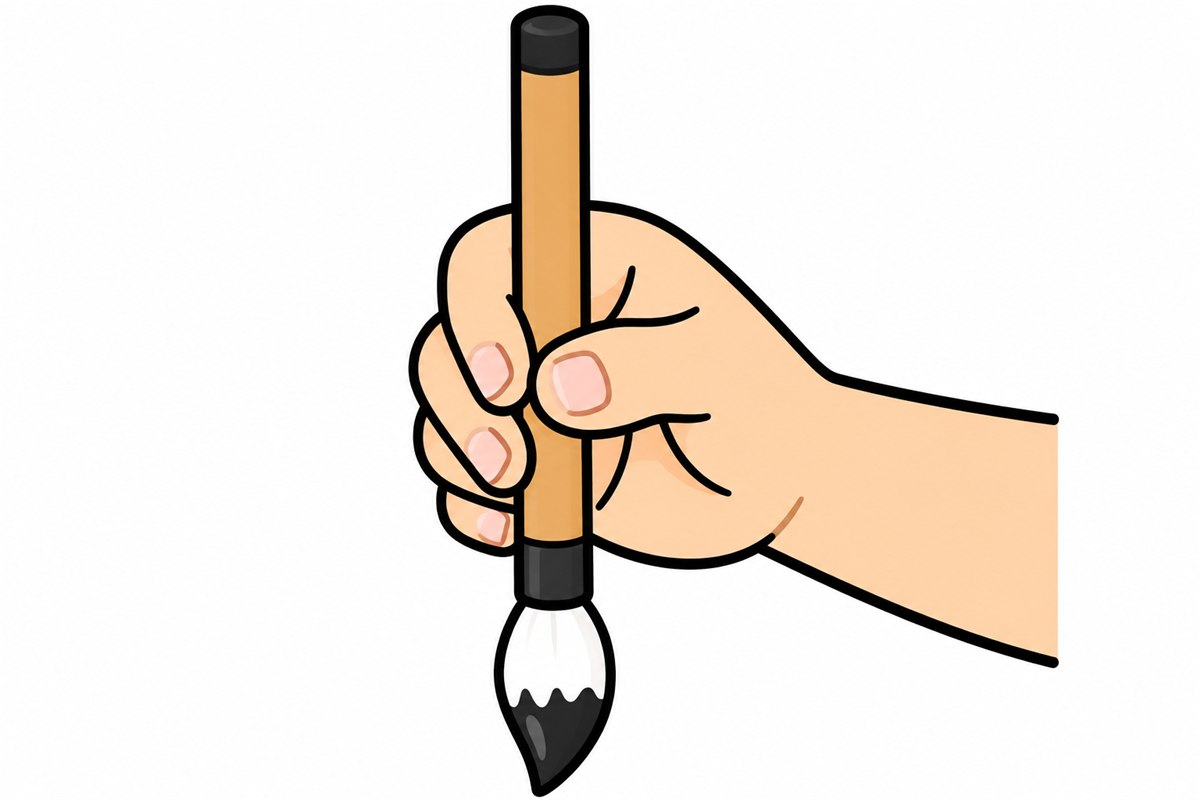
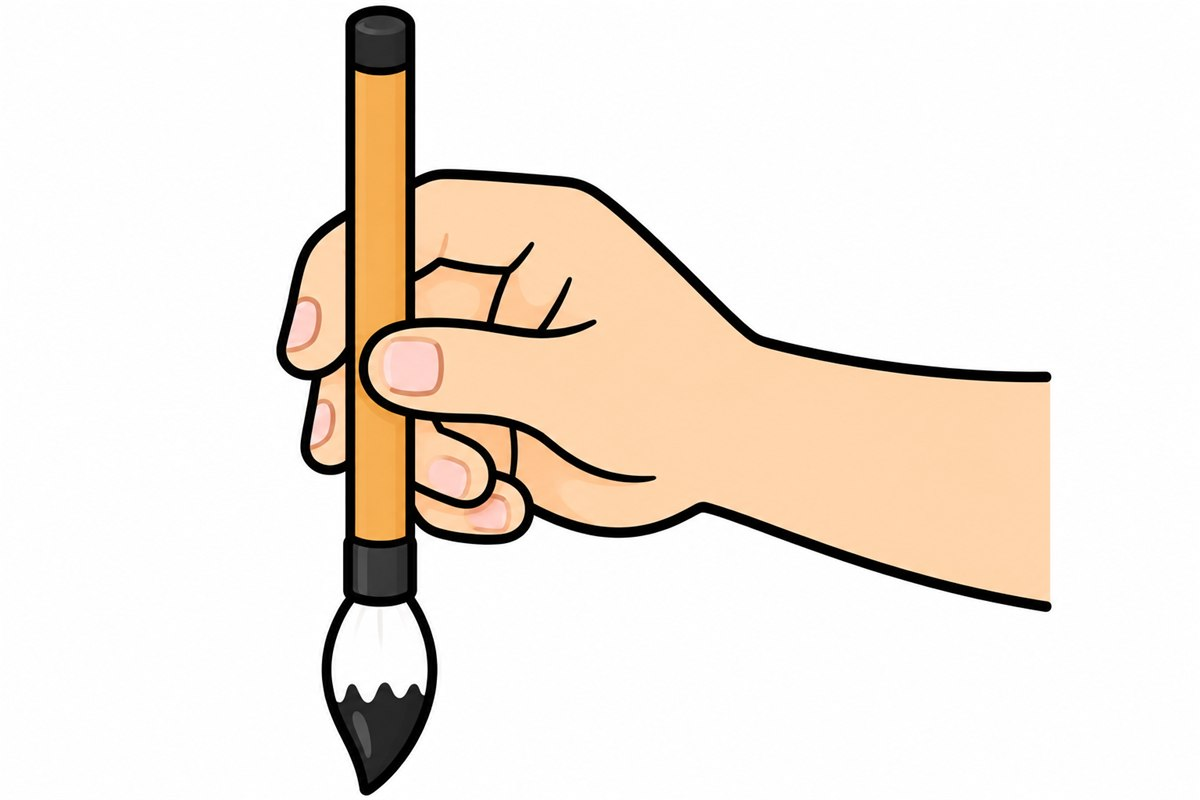
書写アプリ：筆の持ち方を単鉤法に変え、④⑤⑥にお手本の動きを足す
- 「ふでの もちかた」の絵を、単鉤法（おや指と人さし指で持ち、中指でささえる）に作り直す（ChatGPT）
- ことばを「えんぴつと おなじ もちかた」に合わせ、ポイントを4つにする
- 「すわりかた」「ふでの もちかた」は、絵を左、ことばを右にならべて、スクロールなしでおさめる
- ④⑤⑥（かみを おいて なぞる・ふでで なぞる・見て かく）の右がわに、横画・左はらい・右はらいのお手本の筆の動きを出す

Changed region(s): [[0.2158, 0.0, 0.8942, 1.0]]

diff --git a/shosha/index.html b/shosha/index.html
@@ -68,6 +68,10 @@
   .points { display:grid; gap:.45rem; margin:.6rem auto 0; max-width:46rem; padding:0; list-style:none; }
   .points li { background:#fff; border:.14rem solid var(--line); border-radius:.9rem; padding:.45rem .8rem; font-size:1.4rem; font-weight:700; display:flex; gap:.6rem; align-items:center; }
   .points li b { display:grid; place-items:center; flex:none; width:2.1rem; height:2.1rem; border-radius:50%; background:var(--ai); color:#fff; }
+  .card.side { display:flex; gap:1rem; align-items:center; justify-content:center; }
+  .card.side .pic { margin:0; flex:0 1 auto; }
+  .card.side .points { margin:0; flex:1 1 18rem; max-width:30rem; }
+  @media (max-width:800px) { .card.side { flex-direction:column; } }
   .three { display:grid; grid-template-columns:repeat(3,1fr); gap:.6rem; }
   .three figure { margin:0; background:#fff; border:.14rem solid var(--line); border-radius:1rem; padding:.4rem; text-align:center; }
   .three img { width:100%; max-height:36vh; object-fit:contain; }
@@ -372,13 +376,13 @@ const JUNBI = [
     tags: [['おてほん', 13, 88], ['ぶんちん', 48, 13], ['かみ（はんし）', 48, 55], ['したじき', 48, 93], ['おおふで', 67, 11], ['こふで', 77, 95], ['すみ', 90, 3], ['すずり', 91, 97]] },
   { title: 'すわりかた', img: 'shisei.jpg', say: 'しせいを ととのえよう。',
     pts: ['せなかを ぴん', 'あしは ゆかに ぺったん', 'おなかと つくえの あいだは グー ひとつ', 'ひだりてで かみを おさえる'] },
-  { title: 'ふでの もちかた', img: 'mochikata.jpg', say: 'ふでを もとう。ふでは まっすぐ たてるよ。',
-    pts: ['ふでは まっすぐ たてる', 'おやゆびと ゆび ２ほんで もつ', 'ひじを すこし あげる'] }
+  { title: 'ふでの もちかた', img: 'mochikata.jpg', say: 'ふでを もとう。えんぴつと おなじ もちかたで、ふでを まっすぐ たてるよ。',
+    pts: ['おやゆびと ひとさしゆびで もつ', 'なかゆびで うしろから ささえる', 'ふでは まっすぐ たてる', 'ひじを すこし あげる'] }
 ];
 function junbi(m) {
   const J = JUNBI[ui.sub];
   m.innerHTML = talk(J.say) + segHtml(JUNBI.map((j, i) => ({ id: i, label: (i + 1) + '　' + j.title })), ui.sub, 'sub') +
-    '<div class="card"><div class="pic"><img src="images/' + J.img + '" alt="' + J.title + '">' +
+    '<div class="card' + (J.pts ? ' side' : '') + '"><div class="pic"><img src="images/' + J.img + '" alt="' + J.title + '">' +
     (J.tags || []).map(t => '<span class="tag" style="left:' + t[1] + '%;top:' + t[2] + '%">' + t[0] + '</span>').join('') + '</div>' +
     (J.pts ? '<ul class="points">' + J.pts.map((p, i) => '<li><b>' + (i + 1) + '</b>' + p + '</li>').join('') + '</ul>' : '') + '</div>';
   m.querySelectorAll('[data-sub]').forEach(b => b.onclick = () => { ui.sub = +b.dataset.sub; render(); });

diff --git a/shosha/README.md b/shosha/README.md
@@ -129,13 +129,13 @@
 - 設定と はんこ は、その端末のブラウザの中だけに保存されます。ほかの端末には移りません。
 - 絵（スミまる・道具の置き方・すわり方・筆の持ち方・片付け）は、ChatGPT で作ったオリジナルの絵です。ほかの人の絵は読みこませず、ことばで特徴を伝えて作りました。
 - 筆の動きのアニメーションと、線の形は、このアプリのために作ったものです。学校のプリント（「一、二」「大」の書き方）の、ことばと進め方を参考にしています。
+- 筆の持ち方は、単鉤法（たんこうほう。おや指と人さし指で持ち、中指でささえる）です。
 - 筆の持ち方・片付けの手順は、学校や学級のやり方に合わせて、先生がことばで補ってください。
 
 ## これから相談して決めること
 
 - 筆の動きの動画を Canva で作るかどうか（いまは、アプリの中のアニメーションで見せています）。
 - 片付けの手順（筆を水で洗うか、紙でふくか）を、学級のやり方に合わせる。
-- 筆の持ち方の絵が、指導している持ち方と合っているか。
 - 第2回からの内容（おれ・はね、曲がり・そり）を足す。
 - 「一」「二」「大」の文字全体をなぞる練習を足すかどうか。
 - 記録をスプレッドシートに残すかどうか。
